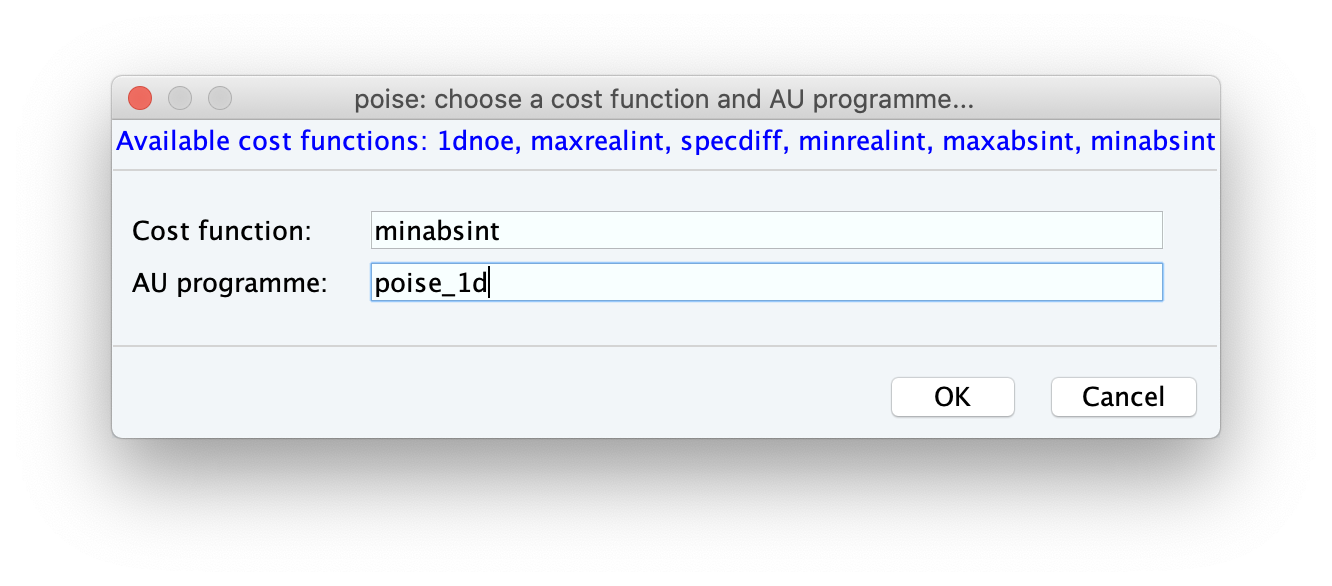
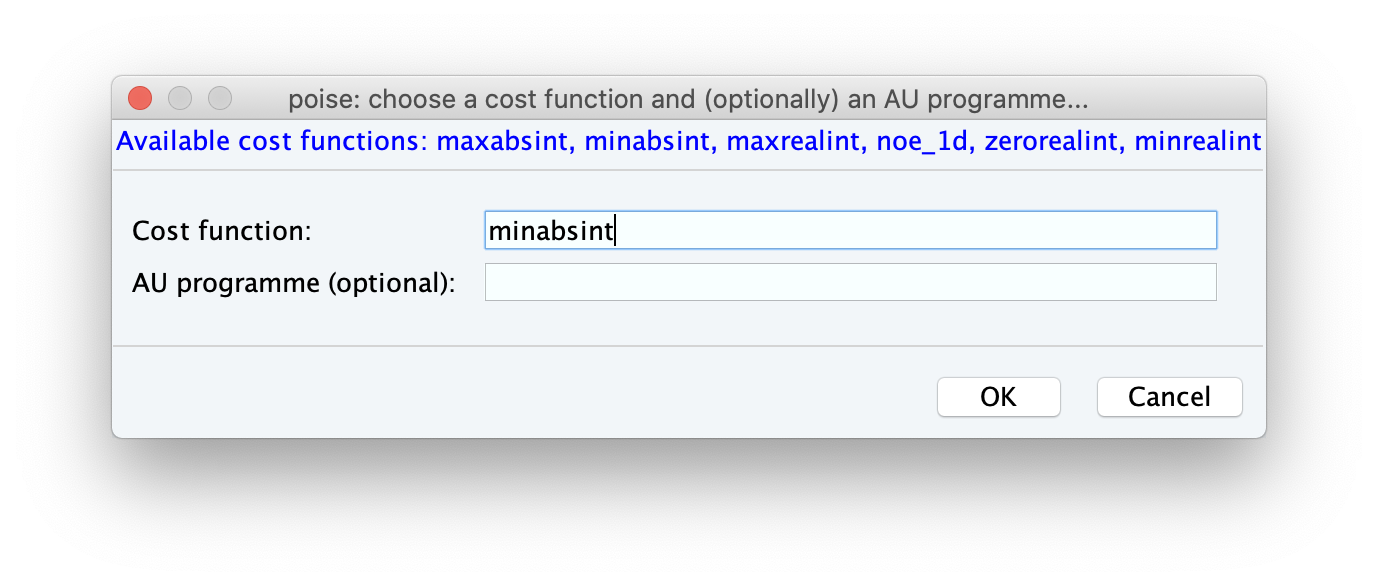
Make AU function optional (#65)
Problem:  AU function was mandated, increasing the learning curve.
Solution: Make AU function optional. If unspecified, defaults to either
          poise_1d or poise_2d depending on dataset dimensionality. Also
          added checks to make sure that the AU programme exists.
          (Fixes #65)

diff --git a/nmrpoise/poise.py b/nmrpoise/poise.py
@@ -120,8 +120,28 @@ def main(args):
             "If you are sure you want to use it on this {}D dataset,"
             " please press OK to continue.".format(GETACQUDIM()))
 
-    # Check that the Routine object is valid
+    # Check that the Routine object itself is valid (i.e. has all the correct
+    # keys).
     check_routine(routine)
+    # Check that the cost function exists
+    saved_cfs = detect_costfunctions().keys()
+    if routine.cf not in saved_cfs:
+        err_exit("The associated cost function {} could not be"
+                 " found.".format(routine.cf))
+    # If the AU programme is blank, set it to poise_nd.
+    if routine.au == "":
+        dim = GETACQUDIM()
+        if dim == 1:
+            # Namedtuples are immutable, so we need the _replace method.
+            routine = routine._replace(au="poise_1d")
+        elif dim == 2:
+            routine = routine._replace(au="poise_2d")
+        else:
+            err_exit("You must specify an AU programme when using POISE with"
+                     " >2D experiments.")
+    # Check that the AU programme exists.
+    if not au_exists(routine.au):
+        err_exit("The AU programme {} was not found.".format(routine.au))
 
     # Make sure that Python 3 executable can be found
     check_python3path()
@@ -536,10 +556,10 @@ def get_new_routine():
                  "your own cost function based on the documentation.")
     else:
         s = ", ".join(saved_cfs)
-        x = INPUT_DIALOG(title=("poise: choose a cost function and "
-                                "AU programme..."),
+        x = INPUT_DIALOG(title=("poise: choose a cost function and"
+                                " (optionally) an AU programme..."),
                          header="Available cost functions: " + s,
-                         items=["Cost function:", "AU programme:"])
+                         items=["Cost function:", "AU programme (optional):"])
         if x is None:  # user closed the dialog
             EXIT()
         elif x[0] in saved_cfs:
@@ -873,6 +893,28 @@ def acqu_done():
             return False
     # OK, looks like the acquisition did complete
     return True
+
+
+def au_exists(au):
+    """
+    Checks for the existence of a named AU programme.
+
+    Parameters
+    ----------
+    au : str
+        Name of the AU programme.
+
+    Returns
+    -------
+    bool : Whether the AU programme exists.
+    """
+    # Undocumented TopSpin function. Fun.
+    au_folders = getParfileDirs(2)
+    # Just check whether it exists in each of the folders.
+    for folder in au_folders:
+        if os.path.exists(os.path.join(folder, au)):
+            return True
+    return False
 
 
 def pulprog_contains_wvm():

diff --git a/docs/routines.rst b/docs/routines.rst
@@ -15,7 +15,7 @@ The ingredients of a routine are:
 
  - A cost function which determines the 'badness' of a spectrum
 
- - The name of an AU programme for acquisition and processing
+ - *(Optional)* The name of an AU programme for acquisition and processing
 
 We will now walk through how to set a routine up, elaborating on each of these ingredients as we come to them.
 To get this process started, type ``poise`` into the TopSpin command line.
@@ -61,13 +61,11 @@ However, it doesn't have to be *too* precise: as long as you aren't off by an or
    POISE also allows you to specify units using the suffixes 'u', 'm', and 's' for microseconds, milliseconds, and seconds respectively. This is designed to mimic TopSpin's parameter settings, where ``30m`` means 30 ms (for example). So you can enter ``48u`` in this screen as well, or indeed ``0.048m``.
 
 
-Finally, we have to choose a **cost function**, as well as an **AU programme**.
-Both of these depend on exactly *how* we are going to evaluate whether the value of ``p1`` is good or not.
-In our case, we will use the ``zg`` pulse programme — a simple proton pulse-acquire.
+Finally, we have to choose a **cost function**, as well as (optionally) an **AU programme**.
 
 The cost function is a Python function which reads the spectrum and returns a *'cost'*, i.e. how bad the spectrum is.
 All optimisations in POISE seek to minimise the cost function.
-In our case, the best value of ``p1`` is one for which the spectral intensity is minimised (i.e. magnetisation is returned to the positive *z*-axis).
+In our case, the best value of ``p1`` is one for which the intensity of a pulse-acquire spectrum (``zg``) is minimised, i.e. magnetisation is returned to the positive *z*-axis.
 So, we can conveniently use the intensity of the magnitude-mode spectrum as the cost function.
 This cost function is also bundled with POISE, and is called ``minabsint``.
 (For those who are familiar with TopSpin's built-in ``popt``, this is equivalent to the ``MAGMIN`` criterion.)
@@ -75,8 +73,10 @@ This cost function is also bundled with POISE, and is called ``minabsint``.
 .. note::
    For more information about the built-in cost functions, check out `costfunctions`.
 
-The corresponding AU programme simply needs to acquire the spectrum, then process using Fourier transform, phase correction, and baseline correction.
-POISE is bundled with one such AU programme, called ``poise_1d``, which performs all this.
+The AU programme controls spectrum acquisition and processing, and can be left blank in this case.
+All we need to do for this routine is to acquire the spectrum, Fourier transform, then perform phase and baseline correction.
+For 1D and 2D datasets, if the AU programme option is left blank, POISE will automatically do exactly these steps.
+Therefore, there is no need to specify an AU programme unless you want to customise this process.
 
 .. image:: images/routine4.png
    :align: center

diff --git a/docs/au.rst b/docs/au.rst
@@ -5,6 +5,8 @@ POISE is bundled with two basic AU programmes for 1D and 2D spectra respectively
 These are mostly self-explanatory, so the text is just given below.
 Of course, you can write your own AU programmes to be used with POISE routines.
 
+These are the "default" AU programmes that POISE uses (for 1D and 2D spectra respectively) if an AU programme is not specified with the routine.
+
 
 poise_1d
 ========
